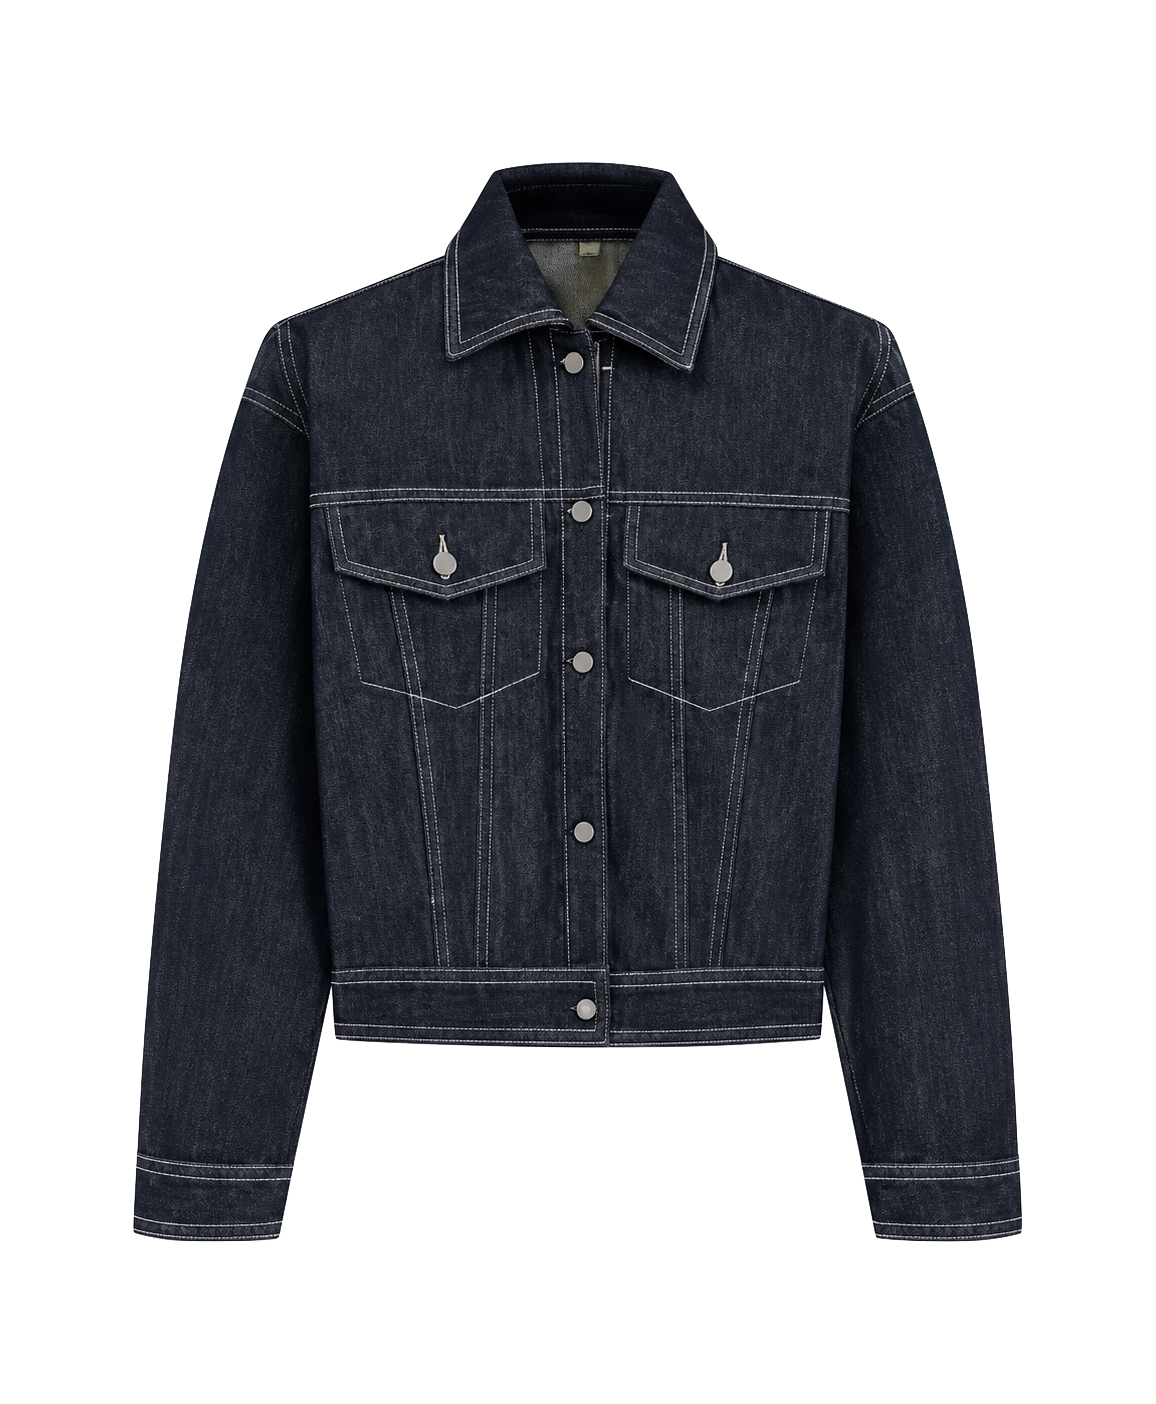
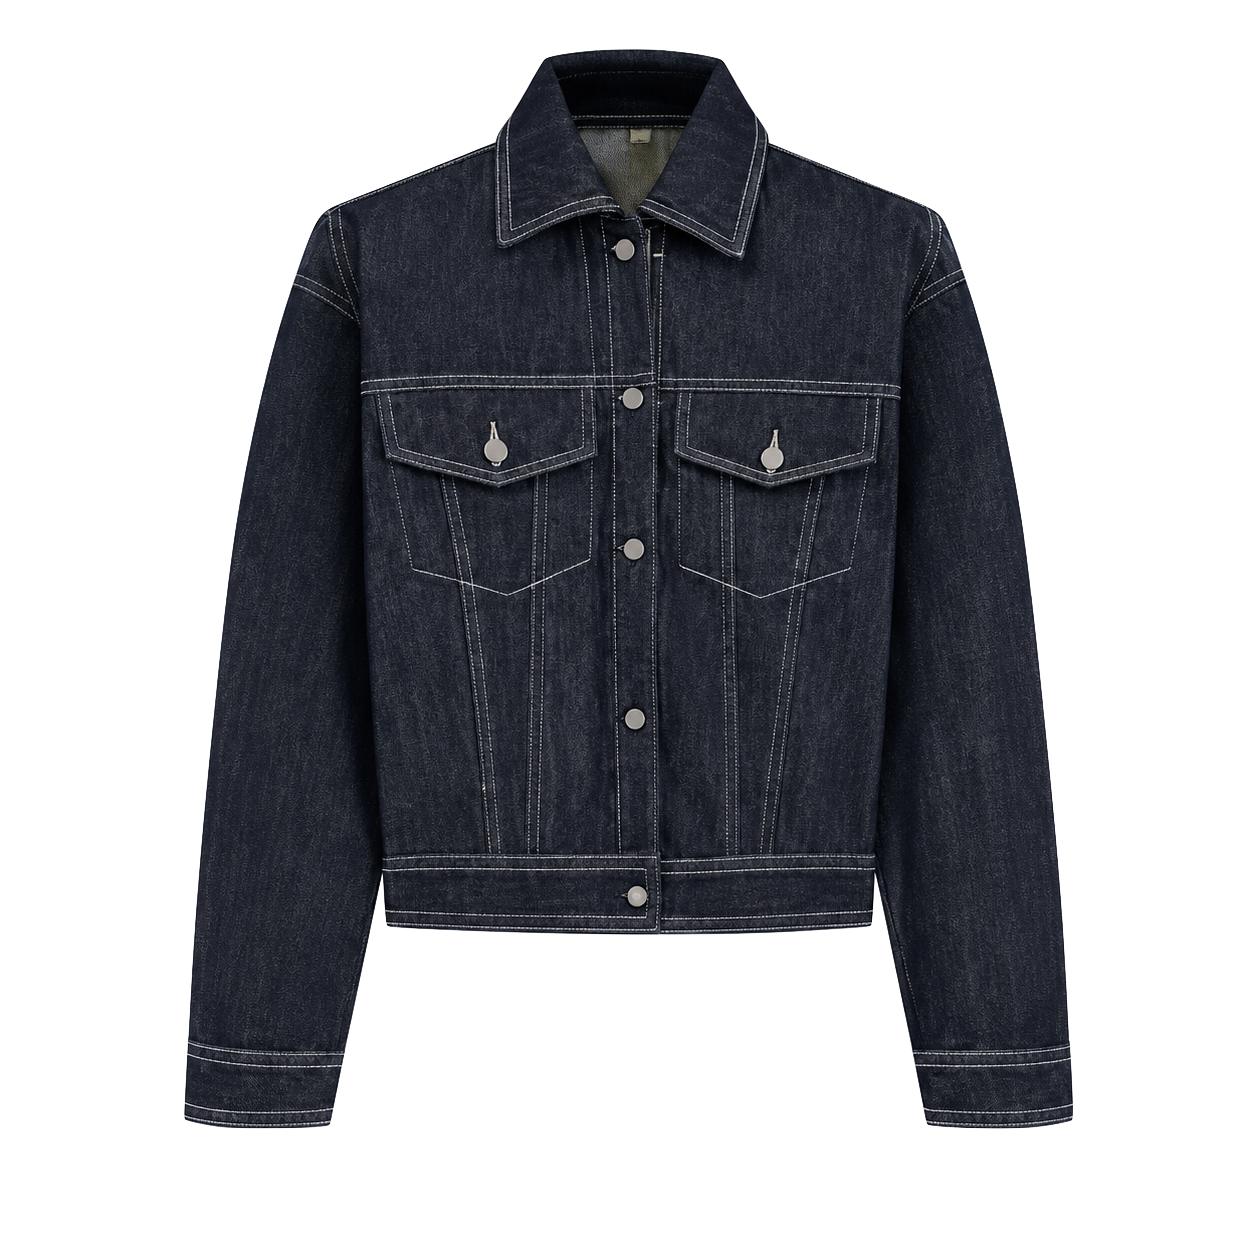
Remove white bg from navy-front slide, restore grid image

Changed region(s): [[0.0934, 0.0311, 0.9031, 0.9019]]

diff --git a/index.html b/index.html
@@ -928,7 +928,7 @@
       'Black':        { price: '350,000', name: 'HDB Raw Denim Jacket V2',              images: ['black-cutout.png', 'black-front.png', 'black-back.png', 'indigo-model2.webp', 'indigo-model1.webp', 'archive-02-45-scaled.webp'] },
       'Raw Indigo':   { price: '410,000', name: 'Áo Khoác Raw Denim – Clasp Series',    images: ['indigo-model-cutout.png', 'indigo-front.png', 'indigo-back.png', 'indigo-store1.webp', 'indigo-lifestyle.webp', 'indigo-store2.webp', 'archive-02-41-scaled.webp', 'archive-02-42-scaled.webp', 'archive-02-43-scaled.webp', 'archive-02-44-scaled.webp'] },
 
-      'Raw Denim V1': { price: '350,000', name: 'Áo Khoác Raw Denim V1',              images: ['rawv2-model2.png', {src:'navy-front.png',fit:'contain'}, {src:'navy-back.png',fit:'contain'}, 'rawv2-vn-11134207-7ras8-m3m5735q4xlt2d.jpeg', 'rawv2-vn-11134207-7ras8-m3m5735q6c692f.jpeg', 'rawv2-vn-11134207-7ras8-m3m5734c5k4h65.jpeg', 'rawv2-vn-11134207-7ras8-m3m573425z988c.jpeg', 'rawv2-vn-11134207-7ras8-m3m5733i6rz5fc.jpeg', 'rawv2-vn-11134207-7ras8-m3m5733s6dcx2d.jpeg', 'rawv2-vn-11134207-7ras8-m3m5735g3y64a2.jpeg', 'rawv2-vn-11134207-7ras8-m4jdpn3zzphr21.jpeg', 'rawv2-vn-11134207-7ras8-m3pe5vpqlqr95f.jpeg'] },
+      'Raw Denim V1': { price: '350,000', name: 'Áo Khoác Raw Denim V1',              images: ['rawv2-model2.png', 'navy-front.png', {src:'navy-back.png',fit:'contain'}, 'rawv2-vn-11134207-7ras8-m3m5735q4xlt2d.jpeg', 'rawv2-vn-11134207-7ras8-m3m5735q6c692f.jpeg', 'rawv2-vn-11134207-7ras8-m3m5734c5k4h65.jpeg', 'rawv2-vn-11134207-7ras8-m3m573425z988c.jpeg', 'rawv2-vn-11134207-7ras8-m3m5733i6rz5fc.jpeg', 'rawv2-vn-11134207-7ras8-m3m5733s6dcx2d.jpeg', 'rawv2-vn-11134207-7ras8-m3m5735g3y64a2.jpeg', 'rawv2-vn-11134207-7ras8-m4jdpn3zzphr21.jpeg', 'rawv2-vn-11134207-7ras8-m3pe5vpqlqr95f.jpeg'] },
       'Raw Denim V2': { price: '350,000', name: 'Áo Khoác Raw Denim V2',             images: ['rawv2-model1.png', 'rawv2-model2.png', 'rawv2-vn-11134207-7ras8-m3m5735q4xlt2d.jpeg', 'rawv2-vn-11134207-7ras8-m3m5735q6c692f.jpeg', 'rawv2-vn-11134207-7ras8-m3m5734c5k4h65.jpeg', 'rawv2-vn-11134207-7ras8-m3m573425z988c.jpeg', 'rawv2-vn-11134207-7ras8-m3m5733i6rz5fc.jpeg', 'rawv2-vn-11134207-7ras8-m3m5733s6dcx2d.jpeg', 'rawv2-vn-11134207-7ras8-m3m5735g3y64a2.jpeg', 'rawv2-vn-11134207-7ras8-m4jdpn3zzphr21.jpeg', 'rawv2-vn-11134207-7ras8-m3pe5vpqlqr95f.jpeg'] },
       'Laser Washed': { price: '430,000', name: 'Áo Khoác Denim Laser Washed',          images: ['lightwash-model.png', 'laser-washed-back.png', 'laser-washed-detail.png', 'JUVA-1-cutout-scaled.webp', 'archive-02-07-scaled.webp', 'archive-02-08-scaled.webp', 'archive-02-09-scaled.webp'] },
       'Form Boxy':    { price: '350,000', name: 'Áo Khoác Denim Form Boxy',             images: ['formboxy-cutout.png', 'formboxy-back.png', 'formboxy-1.webp', 'formboxy-2.webp', 'formboxy-3.webp', 'formboxy-4.webp', 'formboxy-5.webp', 'formboxy-6.webp'] },
